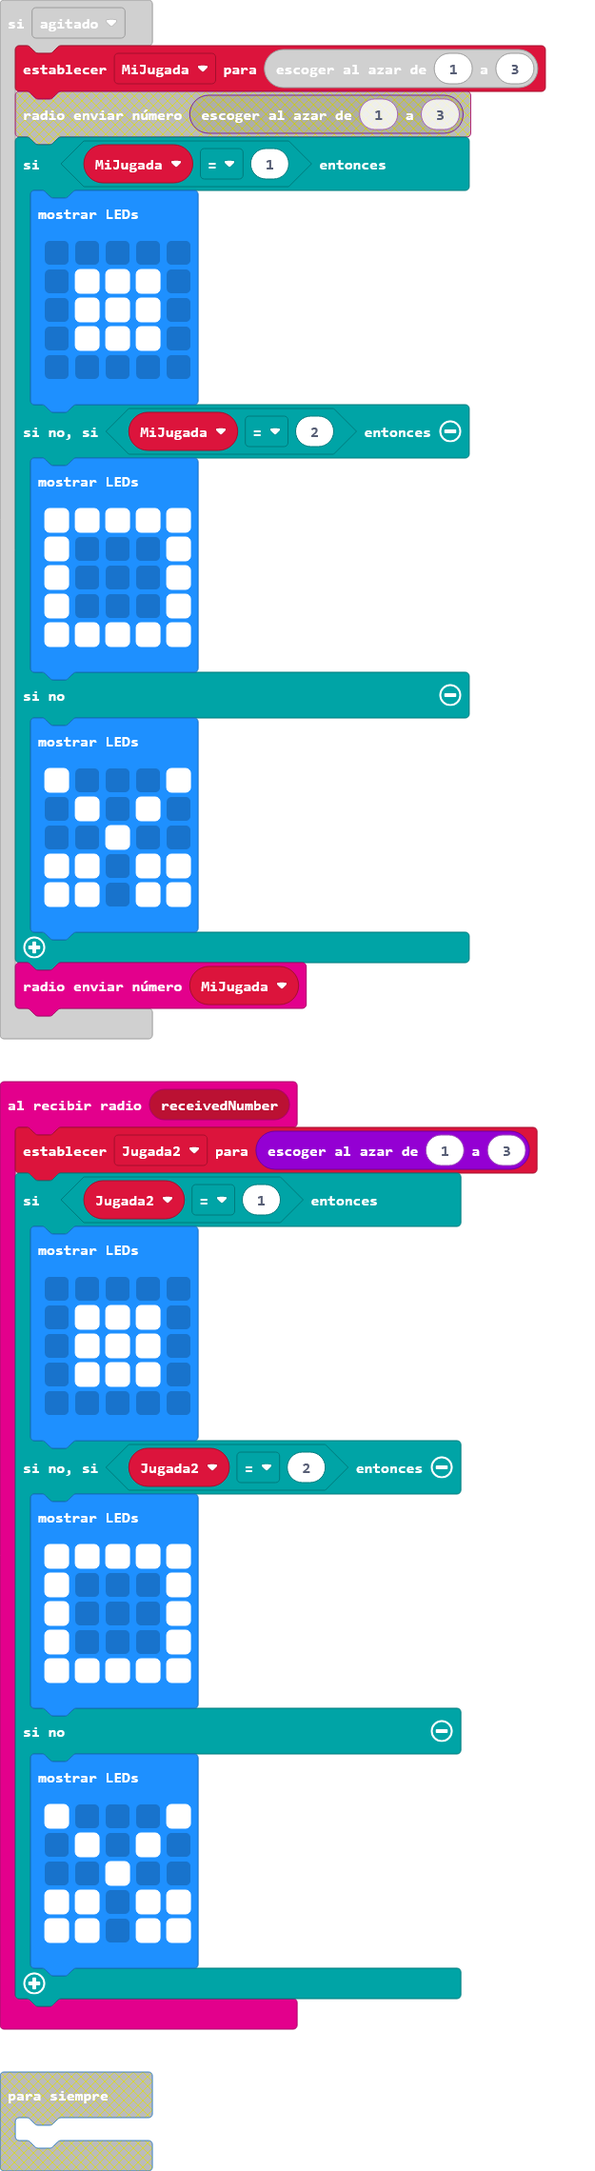
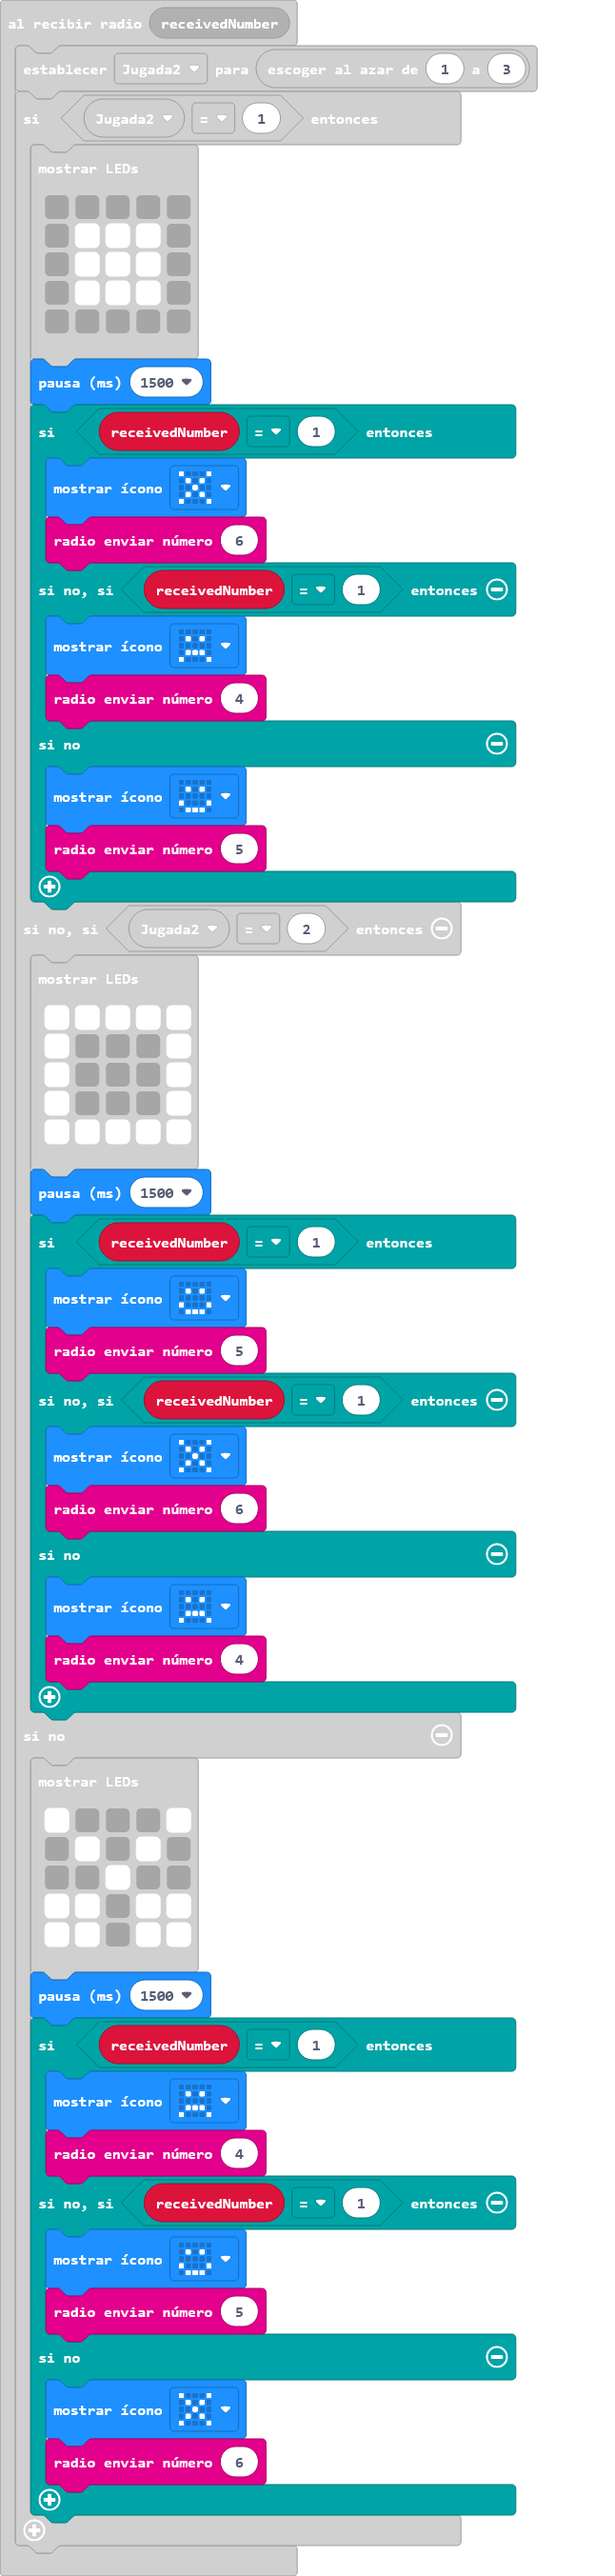
Holiwis kiwiiiiissss

diff --git a/main.ts b/main.ts
@@ -8,6 +8,17 @@ radio.onReceivedNumber(function (receivedNumber) {
             . # # # .
             . . . . .
             `)
+        basic.pause(1500)
+        if (receivedNumber == 1) {
+            basic.showIcon(IconNames.No)
+            radio.sendNumber(6)
+        } else if (receivedNumber == 1) {
+            basic.showIcon(IconNames.Sad)
+            radio.sendNumber(4)
+        } else {
+            basic.showIcon(IconNames.Happy)
+            radio.sendNumber(5)
+        }
     } else if (Jugada2 == 2) {
         basic.showLeds(`
             # # # # #
@@ -16,6 +27,17 @@ radio.onReceivedNumber(function (receivedNumber) {
             # . . . #
             # # # # #
             `)
+        basic.pause(1500)
+        if (receivedNumber == 1) {
+            basic.showIcon(IconNames.Happy)
+            radio.sendNumber(5)
+        } else if (receivedNumber == 1) {
+            basic.showIcon(IconNames.No)
+            radio.sendNumber(6)
+        } else {
+            basic.showIcon(IconNames.Sad)
+            radio.sendNumber(4)
+        }
     } else {
         basic.showLeds(`
             # . . . #
@@ -24,6 +46,17 @@ radio.onReceivedNumber(function (receivedNumber) {
             # # . # #
             # # . # #
             `)
+        basic.pause(1500)
+        if (receivedNumber == 1) {
+            basic.showIcon(IconNames.Sad)
+            radio.sendNumber(4)
+        } else if (receivedNumber == 1) {
+            basic.showIcon(IconNames.Happy)
+            radio.sendNumber(5)
+        } else {
+            basic.showIcon(IconNames.No)
+            radio.sendNumber(6)
+        }
     }
 })
 input.onGesture(Gesture.Shake, function () {
